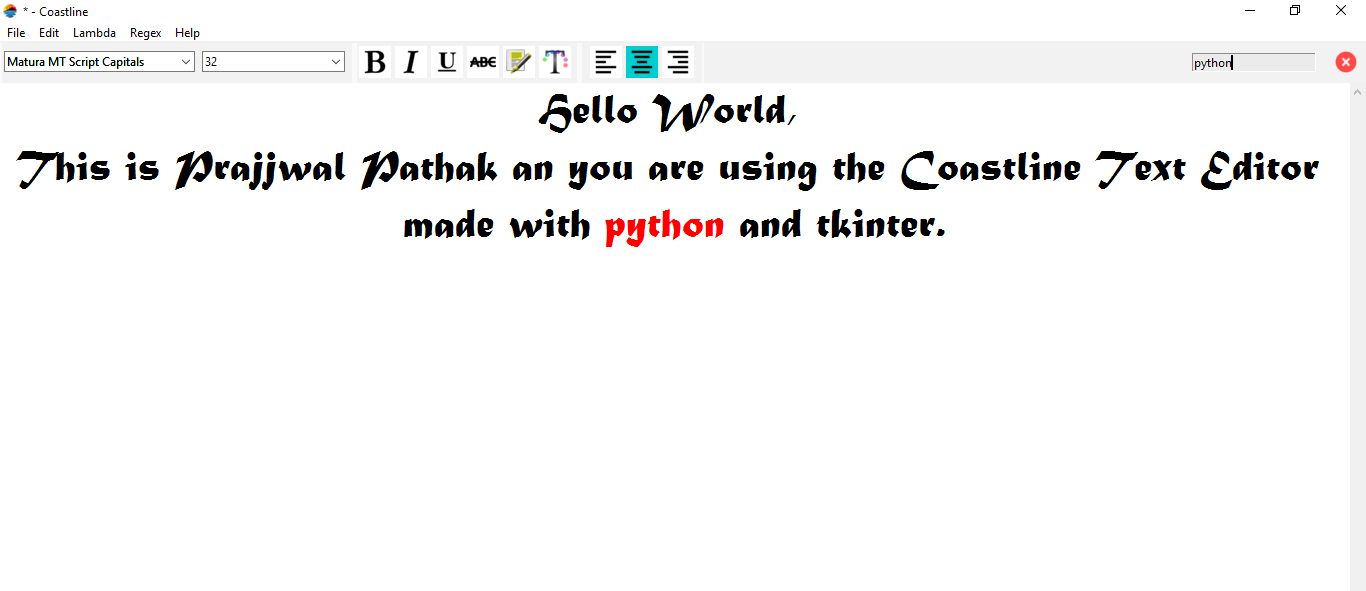
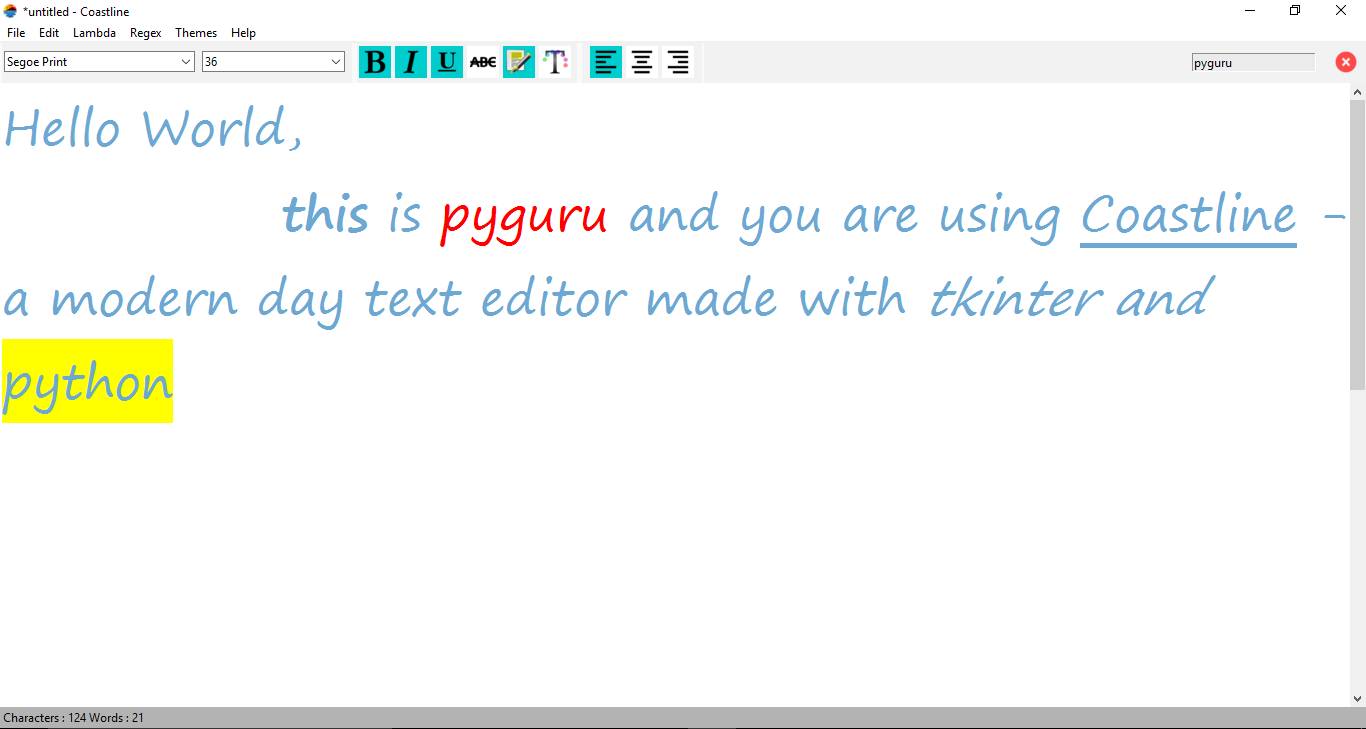
added themes to Coastline

diff --git a/Coastline - Text Editor/application.py b/Coastline - Text Editor/application.py
@@ -216,6 +216,16 @@ class TextEditor(tk.Tk):
 		menu.add_cascade(label='Help', menu=help_menu)
 		self.config(menu=menu)
 
+		self.context_menu = tk.Menu(self, tearoff=0)
+		self.context_menu.add_command(label='Cut', command=self.cut_text)
+		self.context_menu.add_command(label='Copy', command=self.copy_text)
+		self.context_menu.add_command(label='Paste', command=self.paste_text)
+		self.context_menu.add_command(label='Delete', command=self.clear_all)
+		self.context_menu.add_command(label='Select All', command=self.select_all)
+		self.context_menu.add_separator()
+		self.context_menu.add_command(label='Undo', command=self.undo)
+		self.context_menu.add_command(label='Redo', command=self.redo)
+
 	def draw_frames(self):
 		self.ribbon = tk.Frame(self, height=40, bg='gray98')
 		self.ribbon.grid(row=0, column=0, columnspan=2, sticky='WENS')
@@ -322,6 +332,7 @@ class TextEditor(tk.Tk):
 		self.textbox.bind("<Down>",  lambda event: self.textbox.yview_scroll( 3, "units"))
 		self.textbox.bind('<KeyPress>', self._on_keyboard_input)
 		self.textbox.bind('<KeyRelease>', self._on_keyboard_input)
+		self.textbox.bind('<Button-3>', self.show_popup)
 
 	def set_tracing(self):
 		self.font_family.trace_add('write', self.change_font)
@@ -541,30 +552,40 @@ class TextEditor(tk.Tk):
 			win32api.ShellExecute(0,"print",filename,'"%s"' % win32print.GetDefaultPrinter (),
 					".",0)
 
+	def show_popup(self, event):
+		self.context_menu.post(event.x_root, event.y_root)
+
 	def copy_text(self, event=None):
 		self.textbox.event_generate("<<Copy>>")
+		self._on_keyboard_input()
 
 	def cut_text(self, event=None):
 		self.textbox.event_generate("<<Cut>>")
+		self._on_keyboard_input()
 
 	def paste_text(self, event=None):
 		self.textbox.event_generate("<<Paste>>")
+		self._on_keyboard_input()
 
 	def select_all(self, event=None):
 		self.textbox.event_generate("<<SelectAll>>")
+		self._on_keyboard_input()
 
 	def clear_all(self, event=None):
 		self.textbox.event_generate("<<Clear>>")
+		self._on_keyboard_input()
 
 	def undo(self, event=None):
 		try:
 			self.textbox.edit_undo()
+			self._on_keyboard_input()
 		except:
 			pass
 
 	def redo(self, event=None):
 		try:
 			self.textbox.edit_redo()
+			self._on_keyboard_input()
 		except:
 			pass
 

diff --git a/Coastline - Text Editor/readme.md b/Coastline - Text Editor/readme.md
@@ -7,6 +7,7 @@ Coastline Text Editor is a simple python tkinter based text editor application l
 * Find and Replace
 * Arithmetic functions
 * Regex Search
+* Cool themes
 
 ![Alt text](app.png?raw=true "Coastline Text Editor")
 
@@ -44,11 +45,15 @@ List of shortcut commands
 Features
 
 * Find : 
-    To search text just type it in the search entry and press enter, it will higlight the search terms.
+    To search text just type it in the search entry or press Ctrl + F and press enter, it will higlight the search terms.
 * Find and Replace:
     To find and replace, press Ctrl + H to open find and replace dialog box, enter the asked values and click find and replace to update the text
 * Regex Search:
     To use regex search, press Ctrl + R to open the regex search dialog box, type your regex without r or enclosing quotes to make the best possible match
+* Themes:
+	To change themes, select themes from menu bar and select your favorite theme.
+
+* Right Click to get edit context menu
 
 
 ## Contributing
